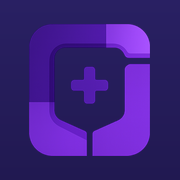
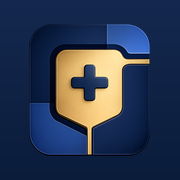
Pivota a identidade visual de roxo para azul + dourado
- Nova logo (navy + dourado) aplicada em icon, apple-icon, favicon,
  opengraph-image e na UI (menu, login)
- Remove o token --purple inteiramente; --accent e --data passam a
  ser azul, não mais roxo
- Botões primários, seleção de NPS e número de pontos usam navy
  sólido (bate com o mock de referência), não mais uma cor de "marca"
  isolada
- Dourado reservado a toques pontuais: wordmark na tela de login,
  CTA de login, ranking #1, pino/prêmio da roleta e borda do cupom —
  em nenhum outro lugar
- Roleta recolorida (azul/navy predominante, um segmento dourado)

diff --git a/src/app/globals.css b/src/app/globals.css
@@ -1,42 +1,40 @@
 @import "tailwindcss";
 
 /* ===== Tokens =====
-   Paleta alinhada à identidade visual do TCC (navy + dourado + roxo),
-   com o "navy" puxado sutilmente para o tom violeta escuro da nossa
-   logo — headers, sidebar e telas de login usam esse indigo-violeta
-   em vez de um navy azul puro. */
+   Paleta da marca: azuis + branco no corpo do app, dourado reservado
+   para toques pontuais (marca, CTA de login, medalha, cupom) — nunca
+   como cor dominante. Sem roxo. */
 :root {
-  --ink: #1a1d29;
-  --ink-soft: #666b7a;
-  --paper: #f5f6f9;
-  --paper-dim: #eaecf2;
+  --ink: #16233f;
+  --ink-soft: #5b6b8a;
+  --paper: #f4f6fb;
+  --paper-dim: #e8ecf5;
   --elevated: #ffffff;
 
-  --navy: #292063;
-  --navy-deep: #211951;
-  --navy-soft: #4e3b94;
-  --gold: #c9a227;
-  --gold-dim: #e2c568;
-  --gold-deep: #96771a;
-  --purple: #6d4fd6;
-  --purple-dim: #a998ea;
-  --purple-deep: #4c34a0;
+  --navy: #14284f;
+  --navy-deep: #0a1c3a;
+  --blue: #2f5fac;
+  --blue-bright: #4976c9;
+  --blue-soft: #dbe6f7;
+  --gold: #c99a4d;
+  --gold-dim: #e8c98a;
+  --gold-deep: #9c7434;
 
   --good: #3f9a5c;
   --warn: #b98a2e;
   --bad: #c0503e;
-  --line: rgba(26, 29, 41, 0.12);
-  --shadow: rgba(18, 26, 48, 0.18);
+  --line: rgba(20, 40, 79, 0.14);
+  --shadow: rgba(10, 28, 58, 0.18);
 
   --bg: var(--paper);
   --bg-elevated: var(--elevated);
   --bg-sunken: var(--paper-dim);
   --text: var(--ink);
   --text-soft: var(--ink-soft);
-  --accent: var(--gold);
-  --accent-soft: var(--gold-dim);
-  --data: var(--purple);
-  --data-soft: var(--purple-dim);
+  --accent: var(--blue);
+  --accent-soft: var(--blue-soft);
+  --data: var(--blue);
+  --data-soft: var(--blue-bright);
   --border: var(--line);
 
   --font-display: ui-serif, Georgia, "Iowan Old Style", "Palatino Linotype", "Times New Roman", serif;
@@ -46,16 +44,16 @@
 
 @media (prefers-color-scheme: dark) {
   :root {
-    --bg: #10131c;
-    --bg-elevated: #191d2b;
-    --bg-sunken: #141824;
-    --text: #eef0f7;
-    --text-soft: #9599ab;
-    --accent: #dcb544;
-    --accent-soft: #96771a;
-    --data: #9683e8;
-    --data-soft: #4c34a0;
-    --border: rgba(238, 240, 247, 0.12);
+    --bg: #0d1526;
+    --bg-elevated: #16203a;
+    --bg-sunken: #111a30;
+    --text: #eef1f8;
+    --text-soft: #93a0bd;
+    --accent: #6f97d6;
+    --accent-soft: #223257;
+    --data: #6f97d6;
+    --data-soft: #4976c9;
+    --border: rgba(238, 241, 248, 0.12);
     --shadow: rgba(0, 0, 0, 0.55);
   }
 }
@@ -88,7 +86,7 @@ button { font-family: inherit; }
 }
 .brand { display: flex; align-items: center; gap: 9px; }
 .brand-logo { border-radius: 6px; }
-.brand-mark { font-family: var(--font-display); font-size: 1.7rem; font-weight: 700; color: var(--accent); }
+.brand-mark { font-family: var(--font-display); font-size: 1.7rem; font-weight: 700; color: var(--navy); }
 .brand-sub { font-size: .82rem; color: var(--text-soft); }
 
 .tabs { display: inline-flex; gap: 2px; padding: 3px; background: var(--bg-sunken); border: 1px solid var(--border); border-radius: 999px; }
@@ -160,14 +158,18 @@ input:focus-visible { border-color: var(--accent); }
 }
 .btn:active { transform: scale(.98); }
 .btn:disabled { opacity: .5; cursor: not-allowed; }
-.btn-primary { background: var(--accent); color: #fff; }
+.btn-primary { background: var(--navy); color: #fff; }
 .btn-primary:hover:not(:disabled) { opacity: .92; }
+/* Toque de dourado reservado para o CTA de entrada no app (tela de login). */
+.btn-gold { background: var(--gold); color: var(--navy-deep); }
+.btn-gold:hover:not(:disabled) { opacity: .92; }
 .btn-ghost { background: transparent; color: var(--text-soft); border: 1px solid var(--border); }
 .btn-ghost:hover { color: var(--text); }
 .btn-linklike {
   appearance: none; background: none; border: 0; padding: 0; font: inherit;
-  color: var(--gold-dim); text-decoration: underline; cursor: pointer;
+  color: var(--blue); text-decoration: underline; cursor: pointer;
 }
+.login-card .btn-linklike { color: var(--gold-dim); }
 .btn-row { display: flex; gap: 10px; margin-top: auto; padding-top: 16px; }
 .btn-row .btn { flex: 1; }
 
@@ -209,7 +211,7 @@ input:focus-visible { border-color: var(--accent); }
 .kv .l { font-size: .68rem; color: var(--text-soft); text-transform: uppercase; letter-spacing: .05em; }
 
 .points-earned { text-align: center; padding: 22px 10px; background: var(--bg-sunken); border-radius: 14px; }
-.points-earned .big { font-family: var(--font-mono); font-size: 2.4rem; font-weight: 700; color: var(--accent); font-variant-numeric: tabular-nums; }
+.points-earned .big { font-family: var(--font-mono); font-size: 2.4rem; font-weight: 700; color: var(--navy); font-variant-numeric: tabular-nums; }
 .points-earned .sub { font-size: .78rem; color: var(--text-soft); margin-top: 2px; }
 
 .chat-bubble {
@@ -224,7 +226,7 @@ input:focus-visible { border-color: var(--accent); }
   width: 30px; height: 34px; border-radius: 8px; border: 1px solid var(--border); background: var(--bg-elevated);
   font-family: var(--font-mono); font-weight: 700; font-size: .82rem; color: var(--text); cursor: pointer;
 }
-.nps-btn.selected { background: var(--accent); border-color: var(--accent); color: #fff; }
+.nps-btn.selected { background: var(--navy); border-color: var(--navy); color: #fff; }
 .nps-scale-labels { display: flex; justify-content: space-between; font-size: .65rem; color: var(--text-soft); }
 textarea {
   width: 100%; font-family: var(--font-body); font-size: .88rem; border: 1px solid var(--border);
@@ -233,7 +235,7 @@ textarea {
 
 /* ===== Roleta ===== */
 .wheel-wrap { display: flex; flex-direction: column; align-items: center; gap: 18px; padding-top: 6px; }
-.wheel-pin { width: 0; height: 0; border-left: 9px solid transparent; border-right: 9px solid transparent; border-top: 14px solid var(--accent); margin-bottom: -4px; z-index: 2; }
+.wheel-pin { width: 0; height: 0; border-left: 9px solid transparent; border-right: 9px solid transparent; border-top: 14px solid var(--gold); margin-bottom: -4px; z-index: 2; }
 .wheel {
   width: 220px; height: 220px; border-radius: 50%; position: relative;
   border: 6px solid var(--bg-elevated); box-shadow: 0 0 0 2px var(--border), 0 14px 30px -10px var(--shadow);
@@ -250,9 +252,9 @@ textarea {
   text-shadow: 0 1px 2px rgba(0, 0, 0, .35);
 }
 .spin-result { text-align: center; }
-.spin-result .prize { font-family: var(--font-display); font-size: 1.3rem; color: var(--accent); }
+.spin-result .prize { font-family: var(--font-display); font-size: 1.3rem; color: var(--gold-deep); }
 
-.coupon { border: 1.5px dashed var(--accent); border-radius: 12px; padding: 16px; text-align: center; background: var(--bg-sunken); }
+.coupon { border: 1.5px dashed var(--gold); border-radius: 12px; padding: 16px; text-align: center; background: var(--bg-sunken); }
 .coupon .code { font-family: var(--font-mono); font-size: 1.15rem; font-weight: 700; letter-spacing: .04em; }
 
 /* ===== Dashboard ===== */

diff --git a/src/app/cliente/page.tsx b/src/app/cliente/page.tsx
@@ -7,12 +7,12 @@ import NavTabs from "@/components/NavTabs";
 const TOTAL_STEPS = 6;
 
 const PRIZES = [
-  { label: "10% OFF", color: "#C9A227" },
-  { label: "Sobremesa Grátis", color: "#6D4FD6" },
-  { label: "5% OFF", color: "#E2C568" },
-  { label: "Bebida Grátis", color: "#1C2745" },
-  { label: "15% OFF", color: "#C9A227" },
-  { label: "Brinde Surpresa", color: "#6D4FD6" },
+  { label: "10% OFF", color: "#2F5FAC" },
+  { label: "Sobremesa Grátis", color: "#14284F" },
+  { label: "5% OFF", color: "#4976C9" },
+  { label: "Bebida Grátis", color: "#0A1C3A" },
+  { label: "15% OFF", color: "#C99A4D" },
+  { label: "Brinde Surpresa", color: "#14284F" },
 ];
 const SEG = 360 / PRIZES.length;
 

diff --git a/src/app/login/page.tsx b/src/app/login/page.tsx
@@ -70,7 +70,7 @@ function LoginForm() {
           {info && <p style={{ color: "rgba(255,255,255,.85)", fontSize: ".8rem" }}>{info}</p>}
 
           <div className="btn-row" style={{ marginTop: 4 }}>
-            <button type="submit" className="btn btn-primary" disabled={loading} style={{ flex: 1 }}>
+            <button type="submit" className="btn btn-gold" disabled={loading} style={{ flex: 1 }}>
               {loading ? "Aguarde..." : mode === "login" ? "Entrar" : "Criar conta"}
             </button>
           </div>
